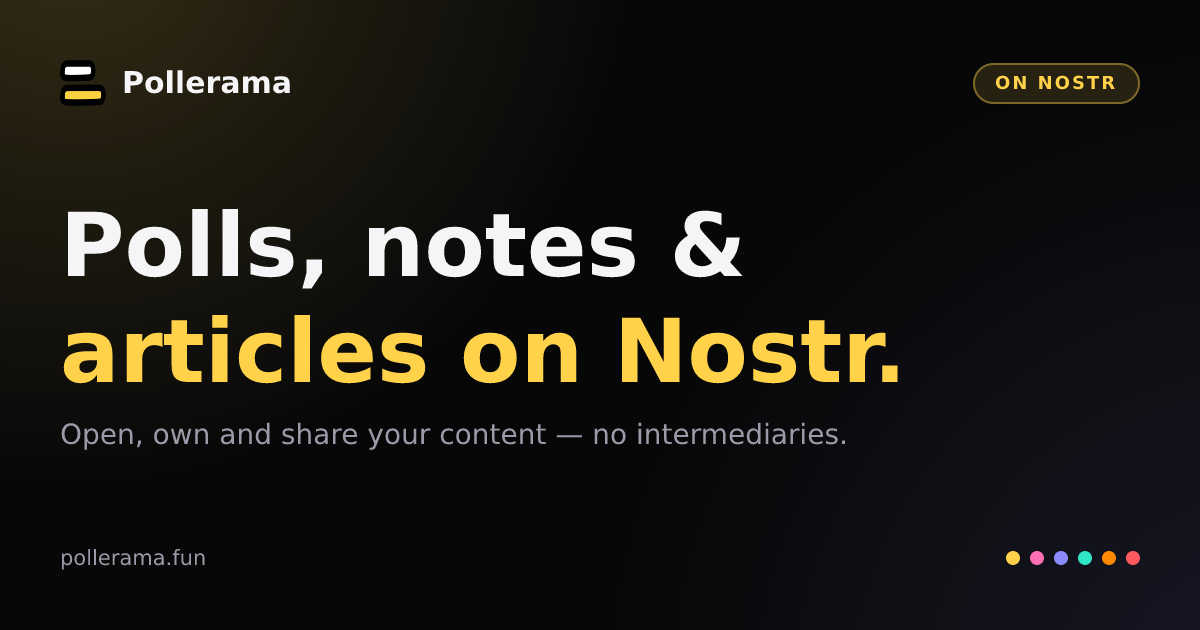
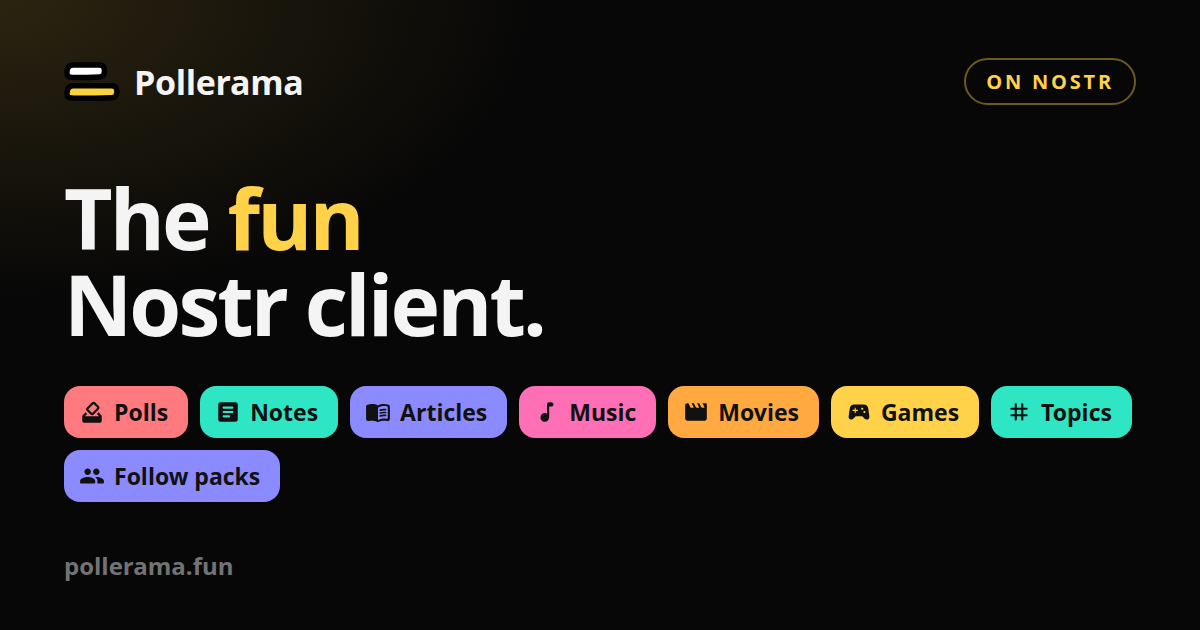
feat(web): "The fun Nostr client" share card, and use it on every page
The default link-preview card said "Polls, notes & articles on Nostr" — the app
also has music, movies, games, topics and follow packs. New card: "The fun
Nostr client." with a chip for each.

The homepage and other non-event routes were served the bare index.html, so
sharing plain pollerama.fun showed no card at all. They now get the default
og:title / og:description / og:image too. Default copy updated in the server
and index.html.

diff --git a/public/index.html b/public/index.html
@@ -6,10 +6,10 @@
   <link rel="shortcut icon" href="%PUBLIC_URL%/logo192.png" />
   <meta name="viewport" content="width=device-width, initial-scale=1, maximum-scale=1, user-scalable=no, viewport-fit=cover" />
   <meta name="theme-color" content="#000000" />
-  <meta name="description" content="Polls On Nostr!" />
+  <meta name="description" content="Polls, notes, articles, music, movies, games and topics — all on Nostr." />
   <link rel="apple-touch-icon" href="%PUBLIC_URL%/logo192.png" />
   <link rel="manifest" href="%PUBLIC_URL%/manifest.json" />
-  <title>Pollerama</title>
+  <title>Pollerama — The fun Nostr client</title>
 
 </head>
 

diff --git a/server/README.md b/server/README.md
@@ -42,8 +42,8 @@ reverse proxy → pollerama-web :8080
 | `PREVIEW_CACHE_MAX` | `5000` | max cached previews |
 | `DEFAULT_OG_IMAGE` | `${SITE_URL}/og-default.png` | override the fallback card |
 | `SITE_NAME` | `Pollerama` | `og:site_name` |
-| `APP_TITLE` | `Pollerama` | generic title |
-| `DEFAULT_DESCRIPTION` | `Polls On Nostr!` | generic description |
+| `APP_TITLE` | `Pollerama — The fun Nostr client` | title for the homepage and other non-event pages |
+| `DEFAULT_DESCRIPTION` | `Polls, notes, articles, music, movies, games and topics — all on Nostr.` | description for the homepage and other non-event pages |
 | `LINK_PREVIEW_TIMEOUT_MS` | `6000` | per-request timeout for `/api/link-preview` |
 | `LINK_PREVIEW_CACHE_MS` | `21600000` | in-memory link-preview TTL |
 | `LINK_PREVIEW_CACHE_MAX` | `5000` | max cached link previews |
